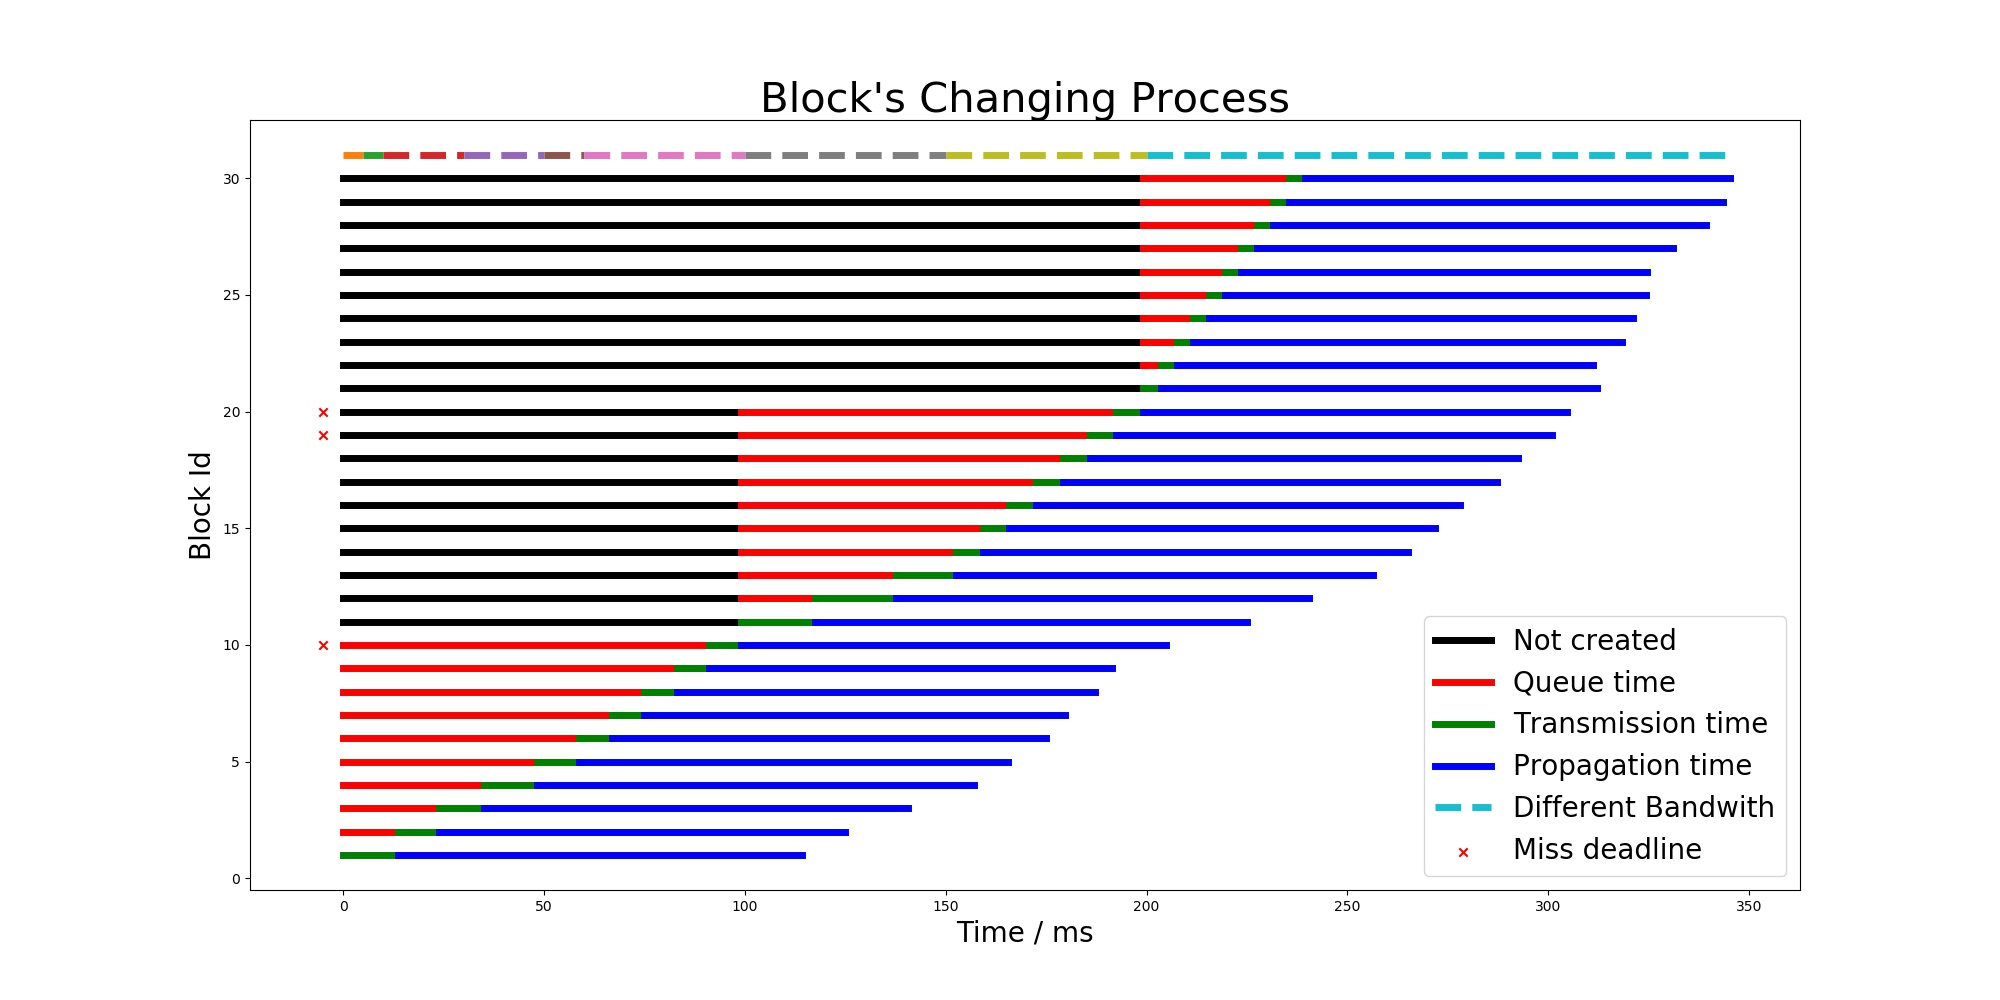
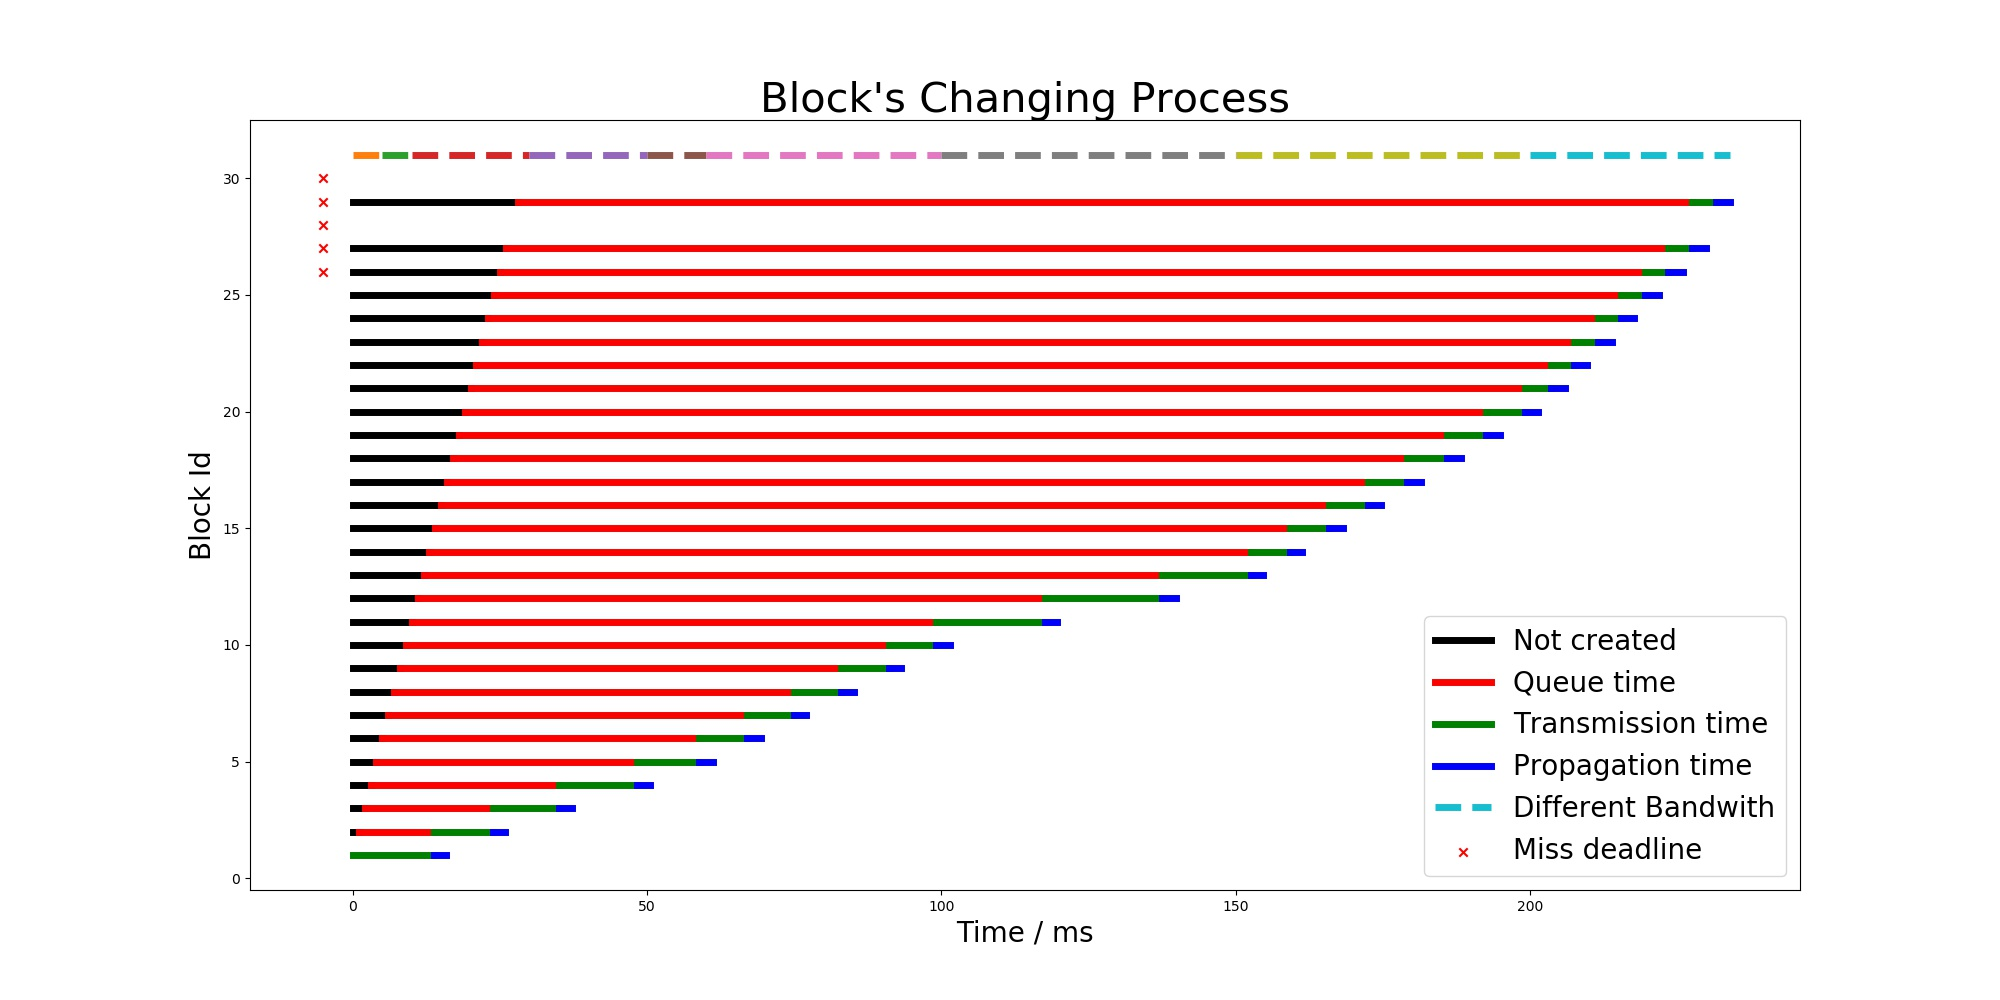
1. add the function of creating block per det time 2. chage emulator init_time to 0 3. bugfix : pass_time should be the block create time if last block finish time is less than the block

Changed region(s): [[0.155, 0.124, 0.868, 0.868], [0.155, 0.403, 0.186, 0.434]]

diff --git a/emulator.py b/emulator.py
@@ -21,7 +21,8 @@ class Emulator(object):
                  propagation_rate=3*10**8,
                  link_list=None,
                  block_file=None,
-                 trace_file=None):
+                 trace_file=None,
+                 det=0):
 
         self.a_queue, self.b_queue, self.c_queue = [], [], []
         # use shallow copy
@@ -39,14 +40,15 @@ class Emulator(object):
         self.transmission_rate = transmission_rate
         self.propagation_rate = propagation_rate
 
-        self.init_time = get_ms_time()
+        self.init_time = 0 # get_ms_time()
         self.pass_time = .0
-        self.last_past_time = .0
 
         self.trace_list = []
 
         self.fir_log = True
+        self.fir_cal = True
         self.block_circle = -1
+        self.det = det
 
         if self.trace_file:
             self.trace_list = self.get_trace()
@@ -54,7 +56,7 @@ class Emulator(object):
             self.transmission_rate = self.trace_list[0][1] * 10**6
 
 
-    def update_queue(self):
+    def update_queue(self, det=0):
 
         with open(self.block_file, "r") as f:
             self.block_circle = int(f.readline())
@@ -63,7 +65,7 @@ class Emulator(object):
             pattern=[]
             for line in f.readlines():
                 pattern.append(
-                    {pattern_cols[idx]:item.strip() for idx, item in enumerate(line.split(','))}
+                    { pattern_cols[idx]:item.strip() for idx, item in enumerate(line.split(',')) }
                 )
 
             peroid = len(pattern)
@@ -71,7 +73,7 @@ class Emulator(object):
                 ch = idx % peroid
                 block = Block(bytes_size=float(pattern[ch]["size"]),
                               deadline=float(pattern[ch]["ddl"]),
-                              timestamp=self.init_time+self.pass_time)
+                              timestamp=self.init_time+self.pass_time+idx*det)
 
                 self.cal_queue[int(pattern[ch]["type"]) ].append(block)
 
@@ -88,15 +90,17 @@ class Emulator(object):
         for _ in range(times):
 
             if self.block_file:
-                self.update_queue()
-            self.last_past_time = self.pass_time
+                self.update_queue(det=self.det)
 
             while True:
                 send_block = self.select_block()
 
+                # todo : send_block type id error
                 if not send_block:
                     break
 
+                # if the block create time > last block finished time(pass_time)
+                self.pass_time = max(self.pass_time, send_block.timestamp)
                 send_block = self.cal_block(send_block)
 
                 # loss package?
@@ -108,7 +112,8 @@ class Emulator(object):
 
         # cal queue time, use get_ms_time which contain cal time
         block.queue_ms = self.init_time + self.pass_time - block.timestamp
-        if self.pass_time <= 0.0000001:
+        if self.fir_cal:
+            self.fir_cal = False
             self.pass_time += block.queue_ms
 
         # cal transmition_ms
@@ -136,8 +141,8 @@ class Emulator(object):
             self.update_trace()
 
         # queue in link
-        block.propagation_ms = random.random() * 10
-        block.propagation_ms += 100 if not self.link_list else self.link_list[0] / self.propagation_rate
+        block.propagation_ms = random.random() * 0.5
+        block.propagation_ms += 2 if not self.link_list else self.link_list[0] / self.propagation_rate
 
         # update emulator
         self.pass_time += block.transmition_ms
@@ -183,7 +188,7 @@ class Emulator(object):
         return best_block
 
 
-    def get_trace(self, det=0):
+    def get_trace(self):
 
         trace_list = []
         with open(self.trace_file, "r") as f:
@@ -237,6 +242,7 @@ class Emulator(object):
 
         for idx in range(min(rows, len(plt_data))):
             used_label = labels if not idx else [None] * 5
+            st = 0
 
             if plt_data[idx]["queue_ms"] != -1:
                 st = plt_data[idx]["timestamp"] - self.init_time
@@ -286,7 +292,8 @@ if __name__ == '__main__':
     trace_file = "config/trace.txt"
 
     emulator = Emulator(block_file=block_file,
-                        trace_file=trace_file)
+                        trace_file=trace_file,
+                        det=1)
 
-    emulator.run(times=3)
+    emulator.run(times=1)
     emulator.analysis(rows=1000)

diff --git a/utils.py b/utils.py
@@ -25,8 +25,7 @@ class Block(object):
 
         self.size = bytes_size
         self.deadline = deadline
-        self.timestamp = timestamp if timestamp else get_ms_time()
-
+        self.timestamp = timestamp if not timestamp is None else get_ms_time()
         # emulator params
         self.queue_ms = -1
         self.propagation_ms = -1
